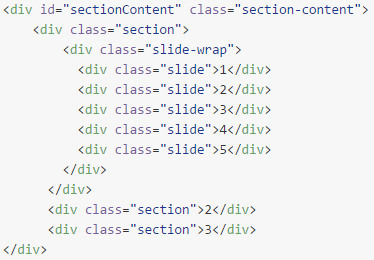
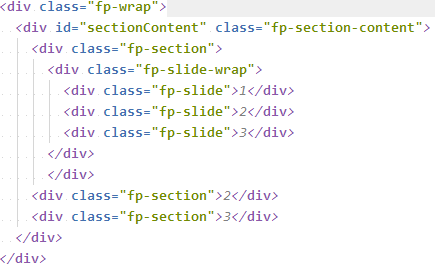
修复键盘绑定事件失效问题

diff --git a/build/fullpage.js b/build/fullpage.js
@@ -4,7 +4,7 @@
  * Author: 抹桥 <yq12315@gmail.com>(http://www.kisnows.com)
  * Homepage: https://github.com/kisnows/fullpage#readme
  * Release under MIT.
- * update 2016-4-22
+ * update 2016-04-28
  * 
  */
 /******/ (function(modules) { // webpackBootstrap
@@ -53,33 +53,31 @@
 /* 0 */
 /***/ function(module, exports, __webpack_require__) {
 
-	eval("'use strict';\n\nObject.defineProperty(exports, \"__esModule\", {\n  value: true\n});\n\nvar _init = __webpack_require__(6);\n\nvar _page = __webpack_require__(5);\n\nvar _page2 = _interopRequireDefault(_page);\n\nfunction _interopRequireDefault(obj) { return obj && obj.__esModule ? obj : { default: obj }; }\n\nvar fullpage = {\n  init: _init.init,\n  scrollPage: _page2.default.scrollPage,\n  scrollSlide: _page2.default.scrollSlide,\n  moveTo: _page2.default.moveTo,\n  moveToNext: _page2.default.move.next,\n  moveToPre: _page2.default.move.pre,\n  slideToNext: _page2.default.slide.next,\n  slideToPre: _page2.default.slide.pre\n};\n\n(function (global) {\n  global.fullpage = fullpage;\n})(window);\n\nexports.default = fullpage;\n\n/*****************\n ** WEBPACK FOOTER\n ** ./src/index.js\n ** module id = 0\n ** module chunks = 0\n **/\n//# sourceURL=webpack:///./src/index.js?");
+	eval("'use strict';\n\nObject.defineProperty(exports, \"__esModule\", {\n  value: true\n});\n\nvar _init = __webpack_require__(1);\n\nvar _page = __webpack_require__(4);\n\nvar _page2 = _interopRequireDefault(_page);\n\nfunction _interopRequireDefault(obj) { return obj && obj.__esModule ? obj : { default: obj }; }\n\nvar fullpage = {\n  init: _init.init,\n  scrollPage: _page2.default.scrollPage,\n  scrollSlide: _page2.default.scrollSlide,\n  moveTo: _page2.default.moveTo,\n  moveToNext: _page2.default.move.next,\n  moveToPre: _page2.default.move.pre,\n  slideToNext: _page2.default.slide.next,\n  slideToPre: _page2.default.slide.pre\n};\n\n(function (global) {\n  global.fullpage = fullpage;\n})(window);\n\nexports.default = fullpage;\n\n/*****************\n ** WEBPACK FOOTER\n ** ./src/index.js\n ** module id = 0\n ** module chunks = 0\n **/\n//# sourceURL=webpack:///./src/index.js?");
 
 /***/ },
-/* 1 */,
+/* 1 */
+/***/ function(module, exports, __webpack_require__) {
+
+	eval("'use strict';\n\nObject.defineProperty(exports, \"__esModule\", {\n  value: true\n});\nexports.options = exports.sections = exports.sectionContent = exports.stepWidth = exports.stepHeight = exports.init = undefined;\n\nvar _utils = __webpack_require__(2);\n\nvar _utils2 = _interopRequireDefault(_utils);\n\nvar _events = __webpack_require__(3);\n\nvar _events2 = _interopRequireDefault(_events);\n\nvar _page = __webpack_require__(4);\n\nvar _page2 = _interopRequireDefault(_page);\n\nfunction _interopRequireDefault(obj) { return obj && obj.__esModule ? obj : { default: obj }; }\n\nvar sectionContent = undefined;\nvar sections = undefined;\nvar options = undefined;\nvar stepHeight = undefined;\nvar stepWidth = undefined;\nvar defaults = {\n  threshold: 50, // 触发滚动事件的阈值，越小越灵敏\n  pageSpeed: 500, // 滚屏速度，单位为毫秒 ms\n  autoScroll: 0, // 自动播放事件间隔，如果为 0 则不自动播放\n  loopSection: true, // Section循环滚动\n  loopSlide: true, // Slide循环滑动\n  afterLoad: null, // 页面载入事件\n  beforeLeave: null, // 页面离开事件\n  afterSlideLoad: null, // slide 载入事件\n  beforeSlideLeave: null // slide 离开事件\n};\n\nfunction init(ele, Customize) {\n  exports.sectionContent = sectionContent = _utils2.default.$$(ele)[0];\n  exports.sections = sections = _utils2.default.$$('.fp-section');\n  exports.options = options = Object.assign({}, defaults, Customize);\n  exports.stepHeight = stepHeight = _utils2.default.$$(ele)[0].offsetHeight;\n  exports.stepWidth = stepWidth = _utils2.default.$$(ele)[0].offsetWidth;\n  initEle();\n  (0, _events2.default)(options, _page2.default, sectionContent);\n}\n\nfunction initEle() {\n  function init() {\n    initContent();\n    initSlide();\n    pageController();\n    customize();\n  }\n\n  init();\n  /**\r\n   * 初始化 Section\r\n   */\n  function initContent() {\n    _utils2.default.setCss(sectionContent, {\n      'transform': 'translate3d(0,0,0)',\n      '-webkit-transform': 'translate3d(0,0,0)',\n      'transitionDuration': options.pageSpeed + 'ms',\n      '-webkit-transitionDuration': options.pageSpeed + 'ms',\n      'display': 'block'\n    });\n\n    sectionContent.addEventListener(_utils2.default.transitionEvent, function () {\n      _page2.default.isScrolling = false;\n    }, false);\n\n    for (var i = sections.length - 1; i >= 0; i--) {\n      sections[i].style.height = stepHeight + 'px';\n    }\n\n    sections[_page2.default.nowPage - 1].classList.add('active');\n  }\n\n  /**\r\n   * 初始化 Slide\r\n   */\n  function initSlide() {\n    var slideWrap = _utils2.default.$$('.fp-slide-wrap');\n    var slides = undefined;\n\n    function slideWrapInitHandle() {\n      _page2.default.isScrolling = false;\n    }\n\n    for (var i = slideWrap.length - 1; i >= 0; i--) {\n      slides = _utils2.default.$$('.fp-slide', slideWrap[i]);\n      for (var j = slides.length - 1; j >= 0; j--) {\n        slides[j].style.width = stepWidth + 'px';\n      }\n      slideWrap[i].style.width = slides.length * stepWidth + 'px';\n      slideWrap[i].dataset.x = '0';\n      slideWrap[i].dataset.index = '1';\n      slideWrap[i].addEventListener(_utils2.default.transitionEvent, slideWrapInitHandle, false);\n    }\n  }\n\n  /**\r\n   * 初始化翻页控制点\r\n   */\n  function pageController() {\n    function init() {\n      createControllerNode();\n      bindEvent();\n      initController();\n    }\n\n    init();\n    // 插入控制点\n    function createControllerNode() {\n      var controllerWrap = document.createElement('div');\n      var controllerText = '';\n      controllerWrap.className = 'fp-controller';\n      for (var i = sections.length; i--; i > 0) {\n        controllerText += \"<div class='fp-controller-dotted'></div>\";\n      }\n      controllerWrap.innerHTML = controllerText;\n      document.body.appendChild(controllerWrap);\n    }\n\n    // 给控制点绑定切换事件\n    function bindEvent() {\n      var controllers = _utils2.default.$$('.fp-controller-dotted');\n      for (var i = controllers.length - 1; i >= 0; i--) {\n        controllers[i].addEventListener('click', helper(i + 1), false);\n      }\n      function helper(i) {\n        return function () {\n          _utils2.default.addClassToOneEle(controllers, i - 1);\n          _page2.default.moveTo(i);\n        };\n      }\n    }\n\n    // 获取控制点初试状态\n    function initController() {\n      var controllers = _utils2.default.$$('.fp-controller-dotted');\n      controllers[_page2.default.nowPage - 1].classList.add('active');\n    }\n  }\n\n  /**\r\n   * 初始化定制内容\r\n   */\n  function customize() {\n    var prop = {\n      autoScroll: function autoScroll() {\n        /* eslint-disable */\n        var timer = null;\n        /* eslint-enable */\n        if (options.autoScroll) {\n          timer = setInterval(function () {\n            _page2.default.move.next();\n          }, options.autoScroll);\n        }\n      }\n    };\n\n    for (var key in prop) {\n      if (prop.hasOwnProperty(key)) {\n        prop[key]();\n      }\n    }\n  }\n}\n\nexports.init = init;\nexports.stepHeight = stepHeight;\nexports.stepWidth = stepWidth;\nexports.sectionContent = sectionContent;\nexports.sections = sections;\nexports.options = options;\n\n/*****************\n ** WEBPACK FOOTER\n ** ./src/init.js\n ** module id = 1\n ** module chunks = 0\n **/\n//# sourceURL=webpack:///./src/init.js?");
+
+/***/ },
 /* 2 */
 /***/ function(module, exports) {
 
 	eval("'use strict';\n\nObject.defineProperty(exports, \"__esModule\", {\n  value: true\n});\nvar utils = {\n  $$: function $$(el, parent) {\n    if (!parent) {\n      return document.querySelectorAll(el);\n    } else {\n      return parent.querySelectorAll(el);\n    }\n  },\n  setCss: function setCss(el, props) {\n    var prop = undefined;\n    for (prop in props) {\n      if (props.hasOwnProperty(prop)) {\n        el.style[prop] = props[prop];\n      }\n    }\n    return el;\n  },\n  translate: function translate(el, value, direction) {\n    if (direction === 'y') {\n      this.setCss(el, {\n        'transform': 'translate3d(0,' + value + 'px,0)',\n        '-webkit-transform': 'translate3d(0,' + value + 'px,0)'\n      });\n      // console.log('setAttr Done')\n    } else if (direction === 'x') {\n        this.setCss(el, {\n          'transform': 'translate3d(' + value + 'px,0,0)',\n          '-webkit-transform': 'translate3d(' + value + 'px,0,0)'\n        });\n      }\n  },\n\n  /**\n   * 只给一组元素中的某一个元素添加class\n   * @param els 一组元素\n   * @param theOne 要添加元素的index值\n   */\n  addClassToOneEle: function addClassToOneEle(els, theOne) {\n    for (var j = els.length - 1; j >= 0; j--) {\n      els[j].classList.remove('active');\n    }\n    els[theOne].classList.add('active');\n  },\n\n  transitionEvent: whichTransitionEvent()\n\n};\n\nfunction whichTransitionEvent() {\n  var t = undefined;\n  var el = document.createElement('fakeelement');\n  var transitions = {\n    'transition': 'transitionend',\n    'OTransition': 'oTransitionEnd',\n    'MozTransition': 'transitionend',\n    'WebkitTransition': 'webkitTransitionEnd',\n    'MsTransition': 'msTransitionEnd'\n  };\n\n  for (t in transitions) {\n    if (el.style[t] !== undefined) {\n      return transitions[t];\n    }\n  }\n}\n\nexports.default = Object.create(utils);\n\n/*****************\n ** WEBPACK FOOTER\n ** ./src/utils.js\n ** module id = 2\n ** module chunks = 0\n **/\n//# sourceURL=webpack:///./src/utils.js?");
 
 /***/ },
-/* 3 */,
-/* 4 */
+/* 3 */
 /***/ function(module, exports) {
 
-	eval("'use strict';\n\nObject.defineProperty(exports, \"__esModule\", {\n  value: true\n});\nfunction bindEvent(options, page, el) {\n  var Events = [];\n\n  /**\n   * 绑定触摸事件\n   */\n  function bindTouchMove() {\n    var startPos = {};\n    var movePos = {};\n    var diffX = undefined;\n    var diffY = undefined;\n    var touch = undefined;\n    var onceTouch = false; //  判断是否为一次触摸，保证一次触摸只触发一次事件\n\n    var threshold = options.threshold; //  阈值,灵敏度，越小越灵敏\n    var isVertical = undefined; //  是否为垂直滚动事件\n\n    function touchstartHandle(event) {\n      //  onceTouch首先置为true，表明开始了一次触摸\n      onceTouch = true;\n      //  初始化 x,y 值，防止点击一次后出现假 move 事件\n      startPos = {};\n      if (event.target.tagName.toLowerCase() !== 'a') {\n        event.preventDefault();\n      }\n      touch = event.touches[0];\n      startPos.x = touch.pageX;\n      startPos.y = touch.pageY;\n    }\n\n    function touchmoveHandle(event) {\n      event.preventDefault();\n      touch = event.touches[0];\n      movePos.x = touch.pageX;\n      movePos.y = touch.pageY;\n      diffX = startPos.x - movePos.x;\n      diffY = startPos.y - movePos.y;\n\n      // 如果页面正在滚动或者不是一次滚动事件，则直接return掉\n      if (page.isScrolling || !onceTouch) {\n        return false;\n      }\n\n      isVertical = Math.abs(diffX) - Math.abs(diffY) <= 0;\n      // 如果diff大于阈值，则事件触发，将onceTouch置为false\n      onceTouch = Math.max(diffX, diffY) <= threshold;\n      if (!isVertical) {\n        if (diffX > threshold) {\n          // Move to left\n          page.slide.next();\n        } else if (diffX < -threshold) {\n          // Move to right\n          page.slide.pre();\n        }\n      } else {\n        // isVertical = true\n        if (diffY > threshold) {\n          // Move to top\n          page.move.next();\n        } else if (diffY < -threshold) {\n          // Move to bottom\n          page.move.pre();\n        }\n      }\n    }\n\n    function touchendHandle(event) {\n      if (event.target.tagName.toLowerCase() !== 'a') {\n        event.preventDefault();\n      }\n      // 重置onceTouch为true\n      onceTouch = true;\n    }\n\n    el.addEventListener('touchstart', touchstartHandle, false);\n\n    el.addEventListener('touchmove', touchmoveHandle, false);\n\n    el.addEventListener('touchend', touchendHandle, false);\n  }\n\n  /**\n   * 绑定鼠标滚动事件\n   */\n  function bindMouseWheel() {\n    // FIXME change the way binding event.\n    var type = undefined;\n    var deltaY = undefined;\n\n    if (navigator.userAgent.toLowerCase().indexOf('firefox') !== -1) {\n      type = 'DOMMouseScroll';\n    } else {\n      type = 'mousewheel';\n    }\n\n    function mouseWheelHandle(event) {\n      if (page.isScrolling) {\n        return false;\n      }\n      deltaY = event.detail || -event.wheelDelta || event.deltaY;\n      if (deltaY > 0) {\n        page.move.next();\n        // console.log('next')\n      } else if (deltaY < 0) {\n          page.move.pre();\n          // console.log('pre')\n        }\n    }\n\n    el.addEventListener(type, mouseWheelHandle, false);\n  }\n\n  /**\n   * 绑定键盘事件\n   */\n  function bindKeyboard() {\n    function keyboardHandle(event) {\n      var key = event.keyCode || event.which;\n      switch (key) {\n        case 37:\n          page.slide.pre();\n          break;\n        case 38:\n          page.move.pre();\n          break;\n        case 39:\n          page.slide.next();\n          break;\n        case 40:\n          page.move.next();\n          break;\n      }\n    }\n\n    el.addEventListener('keydown', keyboardHandle, false);\n  }\n\n  Events.push(bindTouchMove, bindKeyboard, bindMouseWheel);\n\n  Events.forEach(function (now) {\n    now();\n  });\n}\n\nexports.default = bindEvent;\n\n/*****************\n ** WEBPACK FOOTER\n ** ./src/events.js\n ** module id = 4\n ** module chunks = 0\n **/\n//# sourceURL=webpack:///./src/events.js?");
+	eval("'use strict';\n\nObject.defineProperty(exports, \"__esModule\", {\n  value: true\n});\nfunction bindEvent(options, page, el) {\n  var Events = [];\n\n  /**\n   * 绑定触摸事件\n   */\n  function bindTouchMove() {\n    var startPos = {};\n    var movePos = {};\n    var diffX = undefined;\n    var diffY = undefined;\n    var touch = undefined;\n    var onceTouch = false; //  判断是否为一次触摸，保证一次触摸只触发一次事件\n\n    var threshold = options.threshold; //  阈值,灵敏度，越小越灵敏\n    var isVertical = undefined; //  是否为垂直滚动事件\n\n    function touchstartHandle(event) {\n      //  onceTouch首先置为true，表明开始了一次触摸\n      onceTouch = true;\n      //  初始化 x,y 值，防止点击一次后出现假 move 事件\n      startPos = {};\n      if (event.target.tagName.toLowerCase() !== 'a') {\n        event.preventDefault();\n      }\n      touch = event.touches[0];\n      startPos.x = touch.pageX;\n      startPos.y = touch.pageY;\n    }\n\n    function touchmoveHandle(event) {\n      event.preventDefault();\n      touch = event.touches[0];\n      movePos.x = touch.pageX;\n      movePos.y = touch.pageY;\n      diffX = startPos.x - movePos.x;\n      diffY = startPos.y - movePos.y;\n\n      // 如果页面正在滚动或者不是一次滚动事件，则直接return掉\n      if (page.isScrolling || !onceTouch) {\n        return false;\n      }\n\n      isVertical = Math.abs(diffX) - Math.abs(diffY) <= 0;\n      // 如果diff大于阈值，则事件触发，将onceTouch置为false\n      onceTouch = Math.max(diffX, diffY) <= threshold;\n      if (!isVertical) {\n        if (diffX > threshold) {\n          // Move to left\n          page.slide.next();\n        } else if (diffX < -threshold) {\n          // Move to right\n          page.slide.pre();\n        }\n      } else {\n        // isVertical = true\n        if (diffY > threshold) {\n          // Move to top\n          page.move.next();\n        } else if (diffY < -threshold) {\n          // Move to bottom\n          page.move.pre();\n        }\n      }\n    }\n\n    function touchendHandle(event) {\n      if (event.target.tagName.toLowerCase() !== 'a') {\n        event.preventDefault();\n      }\n      // 重置onceTouch为true\n      onceTouch = true;\n    }\n\n    el.addEventListener('touchstart', touchstartHandle, false);\n\n    el.addEventListener('touchmove', touchmoveHandle, false);\n\n    el.addEventListener('touchend', touchendHandle, false);\n  }\n\n  /**\n   * 绑定鼠标滚动事件\n   */\n  function bindMouseWheel() {\n    // FIXME change the way binding event.\n    var type = undefined;\n    var deltaY = undefined;\n\n    if (navigator.userAgent.toLowerCase().indexOf('firefox') !== -1) {\n      type = 'DOMMouseScroll';\n    } else {\n      type = 'mousewheel';\n    }\n\n    function mouseWheelHandle(event) {\n      if (page.isScrolling) {\n        return false;\n      }\n      deltaY = event.detail || -event.wheelDelta || event.deltaY;\n      if (deltaY > 0) {\n        page.move.next();\n        // console.log('next')\n      } else if (deltaY < 0) {\n          page.move.pre();\n          // console.log('pre')\n        }\n    }\n\n    el.addEventListener(type, mouseWheelHandle, false);\n  }\n\n  /**\n   * 绑定键盘事件\n   */\n  function bindKeyboard() {\n    function keyboardHandle(event) {\n      var key = event.keyCode || event.which;\n      switch (key) {\n        case 37:\n          page.slide.pre();\n          break;\n        case 38:\n          page.move.pre();\n          break;\n        case 39:\n          page.slide.next();\n          break;\n        case 40:\n          page.move.next();\n          break;\n      }\n    }\n    // in order to bind key event to a normal element,we should add a tabindex attribute on it.\n    el.setAttribute('tabindex', '1');\n    el.focus();\n    el.addEventListener('keydown', keyboardHandle, false);\n  }\n\n  Events.push(bindTouchMove, bindKeyboard, bindMouseWheel);\n\n  Events.forEach(function (now) {\n    now();\n  });\n}\n\nexports.default = bindEvent;\n\n/*****************\n ** WEBPACK FOOTER\n ** ./src/events.js\n ** module id = 3\n ** module chunks = 0\n **/\n//# sourceURL=webpack:///./src/events.js?");
 
 /***/ },
-/* 5 */
+/* 4 */
 /***/ function(module, exports, __webpack_require__) {
 
-	eval("'use strict';\n\nObject.defineProperty(exports, \"__esModule\", {\n  value: true\n});\n\nvar _utils = __webpack_require__(2);\n\nvar _utils2 = _interopRequireDefault(_utils);\n\nvar _init = __webpack_require__(6);\n\nfunction _interopRequireDefault(obj) { return obj && obj.__esModule ? obj : { default: obj }; }\n\nvar page = {\n  nowPage: 1,\n  isScrolling: false,\n  translate3dY: 0,\n  /**\n   * Scroll to a specified page.\n   * @param pageIndex {number} The page index you want scroll to.\n   * @returns {boolean}\n   */\n  scrollPage: function scrollPage(pageIndex) {\n    var pageDiff = pageIndex - page.nowPage;\n    var leaveSection = _init.sections[page.nowPage - 1];\n    var nowSection = _init.sections[pageIndex - 1];\n    var controllers = _utils2.default.$$('.fp-controller-dotted');\n    if (pageIndex >= 1 && pageIndex <= _init.sections.length && !page.isScrolling && pageDiff) {\n      if (typeof _init.options.beforeLeave === 'function') {\n        /**\n         * leaveSection 函数内部 this 指向，将要离开的 section\n         * page.nowPage 将要离开页面的 index\n         * pageIndex    将要载入页面的 index\n         */\n        _init.options.beforeLeave.call(leaveSection, page.nowPage, pageIndex);\n      }\n\n      leaveSection.classList.remove('active');\n      _utils2.default.addClassToOneEle(controllers, pageIndex - 1);\n      page.translate3dY -= pageDiff * _init.stepHeight;\n      _utils2.default.translate(_init.sectionContent, page.translate3dY, 'y');\n      page.isScrolling = true;\n      page.nowPage = pageIndex;\n      nowSection.classList.add('active');\n\n      if (typeof _init.options.afterLoad === 'function') {\n        _init.options.pageSpeed = _init.options.pageSpeed ? 500 : _init.options.pageSpeed;\n        setTimeout(function () {\n          /**\n           * nowSection 函数内部 this 指向，载入后的 section\n           * pageIndex 载入后的 index\n           */\n          _init.options.afterLoad.call(nowSection, pageIndex);\n        }, _init.options.pageSpeed);\n      }\n      return true;\n    } else {\n      return false;\n    }\n  },\n  /**\n   * Scroll to a specified slide.\n   * @param slideIndex {number} The slide index you want scroll to.\n   * @returns {boolean}\n   */\n  scrollSlide: function scrollSlide(slideIndex) {\n    // 获取slide包裹层\n    var slideWrap = _utils2.default.$$('.fp-slide-wrap', _init.sections[page.nowPage - 1])[0];\n\n    if (!slideWrap) {\n      console.log('This page has no slide');\n      return false;\n    }\n\n    // 当前页面下所有的slide\n    var slide = _init.sections[page.nowPage - 1].querySelectorAll('.fp-slide');\n\n    // 当前页面上存储的数据\n    var slideData = slideWrap.dataset;\n\n    // 当前页面上slide的index\n    var slideNowIndex = parseInt(slideData.index, 10);\n\n    // 当前页面上slide的x轴偏移值\n    var slideX = slideData.x;\n\n    var slideDiff = slideIndex - slideNowIndex;\n\n    if (slideIndex >= 1 && slideIndex <= slide.length && !page.isScrolling) {\n      if (typeof _init.options.beforeSlideLeave === 'function') {\n        /**\n         * leaveSlide           函数内部 this 指向，将要离开的 slide\n         * page.nowPage         将要离开 section 的 index\n         * slideNowIndex        将要离开 slide 的 index\n         * slideIndex           将要载入 slide 的 index\n         */\n        _init.options.beforeSlideLeave.call(slide[slideNowIndex - 1], page.nowPage, slideNowIndex, slideIndex);\n      }\n\n      slide[slideNowIndex - 1].classList.remove('active');\n      slideX -= slideDiff * _init.stepWidth;\n      _utils2.default.translate(slideWrap, slideX, 'x');\n      page.isScrolling = true;\n      slideData.x = slideX;\n      slideData.index = slideIndex;\n      slide[slideIndex - 1].classList.add('active');\n\n      if (typeof _init.options.afterSlideLoad === 'function') {\n        _init.options.pageSpeed = _init.options.pageSpeed ? 500 : _init.options.pageSpeed;\n        setTimeout(function () {\n          /**\n           * nowSection 函数内部 this 指向，载入后的 section\n           * pageIndex 载入后的 index\n           */\n          _init.options.afterSlideLoad.call(slide[slideIndex - 1], page.nowPage, slideIndex);\n        }, _init.options.pageSpeed);\n      }\n      return true;\n    }\n    return false;\n  },\n  /**\n   * Scroll to a specified section and slide.\n   * @param pageIndex {number}\n   * @param slideIndex {number}\n   * @returns {boolean}\n   */\n  moveTo: function moveTo(pageIndex, slideIndex) {\n    // DONE move to a specify section or slide\n    if (page.scrollPage(pageIndex)) {\n      if (slideIndex) {\n        // DONE move to a specify slide\n        return !!page.scrollSlide(slideIndex);\n      }\n      return true;\n    } else {\n      return false;\n    }\n  },\n  move: {\n    next: function next(callback) {\n      if (page.scrollPage(page.nowPage + 1)) {\n        var arg = Array.prototype.slice.call(arguments, 1);\n\n        if (typeof callback === 'function') {\n          callback(arg);\n        }\n        return true;\n      } else if (_init.options.loopSection) {\n        page.moveTo(1);\n\n        return true;\n      } else {\n        return false;\n      }\n    },\n    pre: function pre(callback) {\n      if (page.scrollPage(page.nowPage - 1)) {\n        var arg = Array.prototype.slice.call(arguments, 1);\n\n        if (typeof callback === 'function') {\n          callback(arg);\n        }\n        return true;\n      } else {\n        return false;\n      }\n    }\n  },\n  slide: {\n    /**\n     * slide move 方法，移动到上一个或下一个 slide\n     * @param {string} direction 要移动的方向，next 为下一个， pre 为上一个\n     * @returns {boolean}\n     */\n    move: function move(direction) {\n      var slideWrap = _utils2.default.$$('.fp-slide-wrap', _init.sections[page.nowPage - 1])[0];\n      var slide = _init.sections[page.nowPage - 1].querySelectorAll('.fp-slide');\n      // slideNowIndexChange slideNowIndex 将要的变化\n      var slideNowIndexChange = undefined;\n      // slideWillBe 将要滚到slide的index\n      var slideWillBe = undefined;\n      if (direction === 'next') {\n        slideNowIndexChange = 1;\n        slideWillBe = 1;\n      } else if (direction === 'pre') {\n        slideNowIndexChange = -1;\n        slideWillBe = slide.length;\n      }\n      if (!slideWrap) {\n        return false;\n      } else {\n        var slideData = slideWrap.dataset;\n        var slideNowIndex = parseInt(slideData.index, 10);\n\n        if (page.scrollSlide(slideNowIndex + slideNowIndexChange)) {\n          slideData.index = slideNowIndex + slideNowIndexChange;\n          return true;\n        } else if (_init.options.loopSlide && page.scrollSlide(slideWillBe)) {\n          slideData.index = slideWillBe;\n          return true;\n        }\n        return false;\n      }\n    },\n    next: function next() {\n      this.move('next');\n    },\n    pre: function pre() {\n      this.move('pre');\n    }\n  }\n};\n\nexports.default = page;\n\n/*****************\n ** WEBPACK FOOTER\n ** ./src/page.js\n ** module id = 5\n ** module chunks = 0\n **/\n//# sourceURL=webpack:///./src/page.js?");
-
-/***/ },
-/* 6 */
-/***/ function(module, exports, __webpack_require__) {
-
-	eval("'use strict';\n\nObject.defineProperty(exports, \"__esModule\", {\n  value: true\n});\nexports.options = exports.sections = exports.sectionContent = exports.stepWidth = exports.stepHeight = exports.init = undefined;\n\nvar _utils = __webpack_require__(2);\n\nvar _utils2 = _interopRequireDefault(_utils);\n\nvar _events = __webpack_require__(4);\n\nvar _events2 = _interopRequireDefault(_events);\n\nvar _page = __webpack_require__(5);\n\nvar _page2 = _interopRequireDefault(_page);\n\nfunction _interopRequireDefault(obj) { return obj && obj.__esModule ? obj : { default: obj }; }\n\nvar sectionContent = undefined;\nvar sections = undefined;\nvar options = undefined;\nvar stepHeight = undefined;\nvar stepWidth = undefined;\nvar defaults = {\n  threshold: 50, // 触发滚动事件的阈值，越小越灵敏\n  pageSpeed: 500, // 滚屏速度，单位为毫秒 ms\n  autoScroll: 0, // 自动播放事件间隔，如果为 0 则不自动播放\n  loopSection: true, // Section循环滚动\n  loopSlide: true, // Slide循环滑动\n  afterLoad: null, // 页面载入事件\n  beforeLeave: null, // 页面离开事件\n  afterSlideLoad: null, // slide 载入事件\n  beforeSlideLeave: null // slide 离开事件\n};\n\nfunction init(ele, Customize) {\n  exports.sectionContent = sectionContent = _utils2.default.$$(ele)[0];\n  exports.sections = sections = _utils2.default.$$('.fp-section');\n  exports.options = options = Object.assign({}, defaults, Customize);\n  exports.stepHeight = stepHeight = _utils2.default.$$(ele)[0].offsetHeight;\n  exports.stepWidth = stepWidth = _utils2.default.$$(ele)[0].offsetWidth;\n  initEle();\n  (0, _events2.default)(options, _page2.default, sectionContent);\n}\n\nfunction initEle() {\n  function init() {\n    initContent();\n    initSlide();\n    pageController();\n    customize();\n  }\n\n  init();\n  /**\n   * 初始化 Section\n   */\n  function initContent() {\n    _utils2.default.setCss(sectionContent, {\n      'transform': 'translate3d(0,0,0)',\n      '-webkit-transform': 'translate3d(0,0,0)',\n      'transitionDuration': options.pageSpeed + 'ms',\n      '-webkit-transitionDuration': options.pageSpeed + 'ms',\n      'display': 'block'\n    });\n\n    sectionContent.addEventListener(_utils2.default.transitionEvent, function () {\n      _page2.default.isScrolling = false;\n    }, false);\n\n    for (var i = sections.length - 1; i >= 0; i--) {\n      sections[i].style.height = stepHeight + 'px';\n    }\n\n    sections[_page2.default.nowPage - 1].classList.add('active');\n  }\n\n  /**\n   * 初始化 Slide\n   */\n  function initSlide() {\n    var slideWrap = _utils2.default.$$('.fp-slide-wrap');\n    var slides = undefined;\n\n    function slideWrapInitHandle() {\n      _page2.default.isScrolling = false;\n    }\n\n    for (var i = slideWrap.length - 1; i >= 0; i--) {\n      slides = _utils2.default.$$('.fp-slide', slideWrap[i]);\n      for (var j = slides.length - 1; j >= 0; j--) {\n        slides[j].style.width = stepWidth + 'px';\n      }\n      slideWrap[i].style.width = slides.length * stepWidth + 'px';\n      slideWrap[i].dataset.x = '0';\n      slideWrap[i].dataset.index = '1';\n      slideWrap[i].addEventListener(_utils2.default.transitionEvent, slideWrapInitHandle, false);\n    }\n  }\n\n  /**\n   * 初始化翻页控制点\n   */\n  function pageController() {\n    function init() {\n      createControllerNode();\n      bindEvent();\n      initController();\n    }\n\n    init();\n    // 插入控制点\n    function createControllerNode() {\n      var controllerWrap = document.createElement('div');\n      var controllerText = '';\n      controllerWrap.className = 'fp-controller';\n      for (var i = sections.length; i--; i > 0) {\n        controllerText += \"<div class='fp-controller-dotted'></div>\";\n      }\n      controllerWrap.innerHTML = controllerText;\n      document.body.appendChild(controllerWrap);\n    }\n\n    // 给控制点绑定切换事件\n    function bindEvent() {\n      var controllers = _utils2.default.$$('.fp-controller-dotted');\n      for (var i = controllers.length - 1; i >= 0; i--) {\n        controllers[i].addEventListener('click', helper(i + 1), false);\n      }\n      function helper(i) {\n        return function () {\n          _utils2.default.addClassToOneEle(controllers, i - 1);\n          _page2.default.moveTo(i);\n        };\n      }\n    }\n\n    // 获取控制点初试状态\n    function initController() {\n      var controllers = _utils2.default.$$('.fp-controller-dotted');\n      controllers[_page2.default.nowPage - 1].classList.add('active');\n    }\n  }\n\n  /**\n   * 初始化定制内容\n   */\n  function customize() {\n    var prop = {\n      autoScroll: function autoScroll() {\n        /* eslint-disable */\n        var timer = null;\n        /* eslint-enable */\n        if (options.autoScroll) {\n          timer = setInterval(function () {\n            _page2.default.move.next();\n          }, options.autoScroll);\n        }\n      }\n    };\n\n    for (var key in prop) {\n      if (prop.hasOwnProperty(key)) {\n        prop[key]();\n      }\n    }\n  }\n}\n\nexports.init = init;\nexports.stepHeight = stepHeight;\nexports.stepWidth = stepWidth;\nexports.sectionContent = sectionContent;\nexports.sections = sections;\nexports.options = options;\n\n/*****************\n ** WEBPACK FOOTER\n ** ./src/init.js\n ** module id = 6\n ** module chunks = 0\n **/\n//# sourceURL=webpack:///./src/init.js?");
+	eval("'use strict';\n\nObject.defineProperty(exports, \"__esModule\", {\n  value: true\n});\n\nvar _utils = __webpack_require__(2);\n\nvar _utils2 = _interopRequireDefault(_utils);\n\nvar _init = __webpack_require__(1);\n\nfunction _interopRequireDefault(obj) { return obj && obj.__esModule ? obj : { default: obj }; }\n\nvar page = {\n  nowPage: 1,\n  isScrolling: false,\n  translate3dY: 0,\n  /**\r\n   * Scroll to a specified page.\r\n   * @param pageIndex {number} The page index you want scroll to.\r\n   * @returns {boolean}\r\n   */\n  scrollPage: function scrollPage(pageIndex) {\n    var pageDiff = pageIndex - page.nowPage;\n    var leaveSection = _init.sections[page.nowPage - 1];\n    var nowSection = _init.sections[pageIndex - 1];\n    var controllers = _utils2.default.$$('.fp-controller-dotted');\n    if (pageIndex >= 1 && pageIndex <= _init.sections.length && !page.isScrolling && pageDiff) {\n      if (typeof _init.options.beforeLeave === 'function') {\n        /**\r\n         * leaveSection 函数内部 this 指向，将要离开的 section\r\n         * page.nowPage 将要离开页面的 index\r\n         * pageIndex    将要载入页面的 index\r\n         */\n        _init.options.beforeLeave.call(leaveSection, page.nowPage, pageIndex);\n      }\n\n      leaveSection.classList.remove('active');\n      _utils2.default.addClassToOneEle(controllers, pageIndex - 1);\n      page.translate3dY -= pageDiff * _init.stepHeight;\n      _utils2.default.translate(_init.sectionContent, page.translate3dY, 'y');\n      page.isScrolling = true;\n      page.nowPage = pageIndex;\n      nowSection.classList.add('active');\n\n      if (typeof _init.options.afterLoad === 'function') {\n        _init.options.pageSpeed = _init.options.pageSpeed ? 500 : _init.options.pageSpeed;\n        setTimeout(function () {\n          /**\r\n           * nowSection 函数内部 this 指向，载入后的 section\r\n           * pageIndex 载入后的 index\r\n           */\n          _init.options.afterLoad.call(nowSection, pageIndex);\n        }, _init.options.pageSpeed);\n      }\n      return true;\n    } else {\n      return false;\n    }\n  },\n  /**\r\n   * Scroll to a specified slide.\r\n   * @param slideIndex {number} The slide index you want scroll to.\r\n   * @returns {boolean}\r\n   */\n  scrollSlide: function scrollSlide(slideIndex) {\n    // 获取slide包裹层\n    var slideWrap = _utils2.default.$$('.fp-slide-wrap', _init.sections[page.nowPage - 1])[0];\n\n    if (!slideWrap) {\n      console.log('This page has no slide');\n      return false;\n    }\n\n    // 当前页面下所有的slide\n    var slide = _init.sections[page.nowPage - 1].querySelectorAll('.fp-slide');\n\n    // 当前页面上存储的数据\n    var slideData = slideWrap.dataset;\n\n    // 当前页面上slide的index\n    var slideNowIndex = parseInt(slideData.index, 10);\n\n    // 当前页面上slide的x轴偏移值\n    var slideX = slideData.x;\n\n    var slideDiff = slideIndex - slideNowIndex;\n\n    if (slideIndex >= 1 && slideIndex <= slide.length && !page.isScrolling) {\n      if (typeof _init.options.beforeSlideLeave === 'function') {\n        /**\r\n         * leaveSlide           函数内部 this 指向，将要离开的 slide\r\n         * page.nowPage         将要离开 section 的 index\r\n         * slideNowIndex        将要离开 slide 的 index\r\n         * slideIndex           将要载入 slide 的 index\r\n         */\n        _init.options.beforeSlideLeave.call(slide[slideNowIndex - 1], page.nowPage, slideNowIndex, slideIndex);\n      }\n\n      slide[slideNowIndex - 1].classList.remove('active');\n      slideX -= slideDiff * _init.stepWidth;\n      _utils2.default.translate(slideWrap, slideX, 'x');\n      page.isScrolling = true;\n      slideData.x = slideX;\n      slideData.index = slideIndex;\n      slide[slideIndex - 1].classList.add('active');\n\n      if (typeof _init.options.afterSlideLoad === 'function') {\n        _init.options.pageSpeed = _init.options.pageSpeed ? 500 : _init.options.pageSpeed;\n        setTimeout(function () {\n          /**\r\n           * nowSection 函数内部 this 指向，载入后的 section\r\n           * pageIndex 载入后的 index\r\n           */\n          _init.options.afterSlideLoad.call(slide[slideIndex - 1], page.nowPage, slideIndex);\n        }, _init.options.pageSpeed);\n      }\n      return true;\n    }\n    return false;\n  },\n  /**\r\n   * Scroll to a specified section and slide.\r\n   * @param pageIndex {number}\r\n   * @param slideIndex {number}\r\n   * @returns {boolean}\r\n   */\n  moveTo: function moveTo(pageIndex, slideIndex) {\n    // DONE move to a specify section or slide\n    if (page.scrollPage(pageIndex)) {\n      if (slideIndex) {\n        // DONE move to a specify slide\n        return !!page.scrollSlide(slideIndex);\n      }\n      return true;\n    } else {\n      return false;\n    }\n  },\n  move: {\n    next: function next(callback) {\n      if (page.scrollPage(page.nowPage + 1)) {\n        var arg = Array.prototype.slice.call(arguments, 1);\n\n        if (typeof callback === 'function') {\n          callback(arg);\n        }\n        return true;\n      } else if (_init.options.loopSection) {\n        page.moveTo(1);\n\n        return true;\n      } else {\n        return false;\n      }\n    },\n    pre: function pre(callback) {\n      if (page.scrollPage(page.nowPage - 1)) {\n        var arg = Array.prototype.slice.call(arguments, 1);\n\n        if (typeof callback === 'function') {\n          callback(arg);\n        }\n        return true;\n      } else {\n        return false;\n      }\n    }\n  },\n  slide: {\n    /**\r\n     * slide move 方法，移动到上一个或下一个 slide\r\n     * @param {string} direction 要移动的方向，next 为下一个， pre 为上一个\r\n     * @returns {boolean}\r\n     */\n    move: function move(direction) {\n      var slideWrap = _utils2.default.$$('.fp-slide-wrap', _init.sections[page.nowPage - 1])[0];\n      var slide = _init.sections[page.nowPage - 1].querySelectorAll('.fp-slide');\n      // slideNowIndexChange slideNowIndex 将要的变化\n      var slideNowIndexChange = undefined;\n      // slideWillBe 将要滚到slide的index\n      var slideWillBe = undefined;\n      if (direction === 'next') {\n        slideNowIndexChange = 1;\n        slideWillBe = 1;\n      } else if (direction === 'pre') {\n        slideNowIndexChange = -1;\n        slideWillBe = slide.length;\n      }\n      if (!slideWrap) {\n        return false;\n      } else {\n        var slideData = slideWrap.dataset;\n        var slideNowIndex = parseInt(slideData.index, 10);\n\n        if (page.scrollSlide(slideNowIndex + slideNowIndexChange)) {\n          slideData.index = slideNowIndex + slideNowIndexChange;\n          return true;\n        } else if (_init.options.loopSlide && page.scrollSlide(slideWillBe)) {\n          slideData.index = slideWillBe;\n          return true;\n        }\n        return false;\n      }\n    },\n    next: function next() {\n      this.move('next');\n    },\n    pre: function pre() {\n      this.move('pre');\n    }\n  }\n};\n\nexports.default = page;\n\n/*****************\n ** WEBPACK FOOTER\n ** ./src/page.js\n ** module id = 4\n ** module chunks = 0\n **/\n//# sourceURL=webpack:///./src/page.js?");
 
 /***/ }
 /******/ ]);

diff --git a/src/fullpage.css b/src/fullpage.css
@@ -1,4 +1,4 @@
-.fp-wrap{
+.fp-wrap {
   overflow: hidden;
   margin: 0;
   padding: 0;
@@ -10,7 +10,7 @@
   height: 100%;
   margin: 0;
   padding: 0;
-  /*transition: all 0.5s ease-in-out;*/
+  outline: none;
 }
 
 .fp-section-content .fp-section {
@@ -20,17 +20,15 @@
 }
 
 .fp-section-content .fp-section .fp-slide-wrap {
-  transition: all 0.5s ease-in-out;
   -webkit-transition: all 0.5s ease-in-out;
-  -moz-transition: all 0.5s ease-in-out;
-  height: 100%;
+  transition: all 0.5s ease-in-out;
   width: auto;
+  height: 100%;
   position: relative;
+  overflow: hidden;
 }
 
 .fp-section-content .fp-section .fp-slide-wrap .fp-slide {
-  display: inline-block;
-  height: 100%;
   float: left;
 }
 
@@ -51,6 +49,7 @@
   border-radius: 50%;
   background: #fff;
   border: 1px solid #000;
+  -webkit-transition: all 0.5s ease-in-out;
   transition: all 0.5s ease-in-out;
 }
 

diff --git a/demo/demo2/index.html b/demo/demo2/index.html
@@ -1,0 +1,32 @@
+<!DOCTYPE html>
+<html lang="en">
+<head>
+  <meta charset="UTF-8">
+  <title>Demo2</title>
+  <style>
+    *{
+      box-sizing: border-box;
+    }
+    .test{
+      width: 300px;
+      height: 300px;
+      background: red;
+    }
+    .test:hover {
+      border: 1px solid black;
+    }
+  </style>
+</head>
+<body>
+<div class="test" tabindex="1"></div>
+<script>
+  var t = document.querySelector('.test')
+  t.addEventListener('keydown',function(e){
+    console.log('t',e,e.target,'\n')
+  },false)
+  document.addEventListener('keydown',function(e){
+    console.log('document',e,e.target,'\n')
+  })
+</script>
+</body>
+</html>

diff --git a/src/events.js b/src/events.js
@@ -131,7 +131,9 @@ function bindEvent (options, page, el) {
           break
       }
     }
-
+    // in order to bind key event to a normal element,we should add a tabindex attribute on it.
+    el.setAttribute('tabindex', '1')
+    el.focus()
     el.addEventListener('keydown', keyboardHandle, false)
   }
 

diff --git a/readme.md b/readme.md
@@ -25,25 +25,25 @@ npm install fullpage
 * 按照下面格式书写`html`代码（其中 id 为 `sectionContent` 的为包裹层，你可以自定义修改其id）
 
 ```html
-    <head>
-      <link rel='stylesheet' href='fullpage.css'>
-      <script src='fullpage.min.js'></script>
-    </head>
-    <body>
-    <div id="sectionContent" class="fp-section-content">
-        <div class="fp-section">
-            <div class="fp-slide-wrap">
-              <div class="fp-slide">1</div>
-              <div class="fp-slide">2</div>
-              <div class="fp-slide">3</div>
-              <div class="fp-slide">4</div>
-              <div class="fp-slide">5</div>
-            </div>
-          </div>
-        <div class="fp-section">2</div>
-        <div class="fp-section">3</div>
-    </div>
-    </body>
+<head>
+  <link rel='stylesheet' href='fullpage.css'>
+  <script src='fullpage.min.js'></script>
+</head>
+<body>
+<div class="fp-wrap">
+  <div id="sectionContent" class="fp-section-content">
+    <div class="fp-section">
+      <div class="fp-slide-wrap">
+        <div class="fp-slide">1</div>
+        <div class="fp-slide">2</div>
+        <div class="fp-slide">3</div>
+      </div>
+      </div>
+    <div class="fp-section">2</div>
+    <div class="fp-section">3</div>
+  </div>
+</div>
+</body>
 ```
 
 ##初始化
